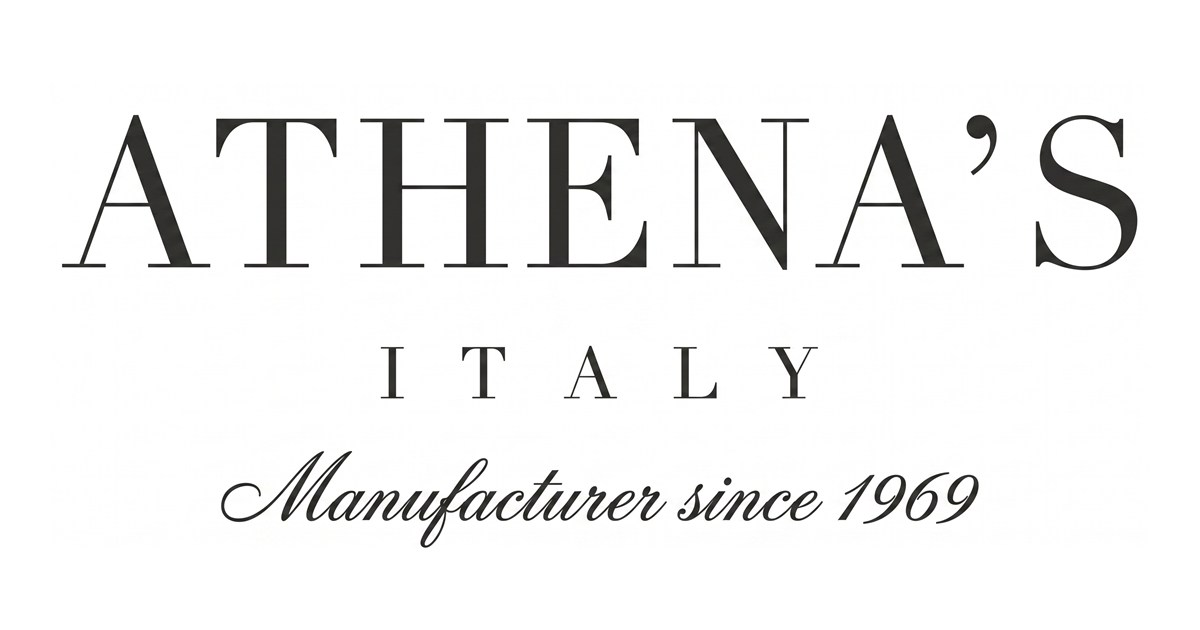
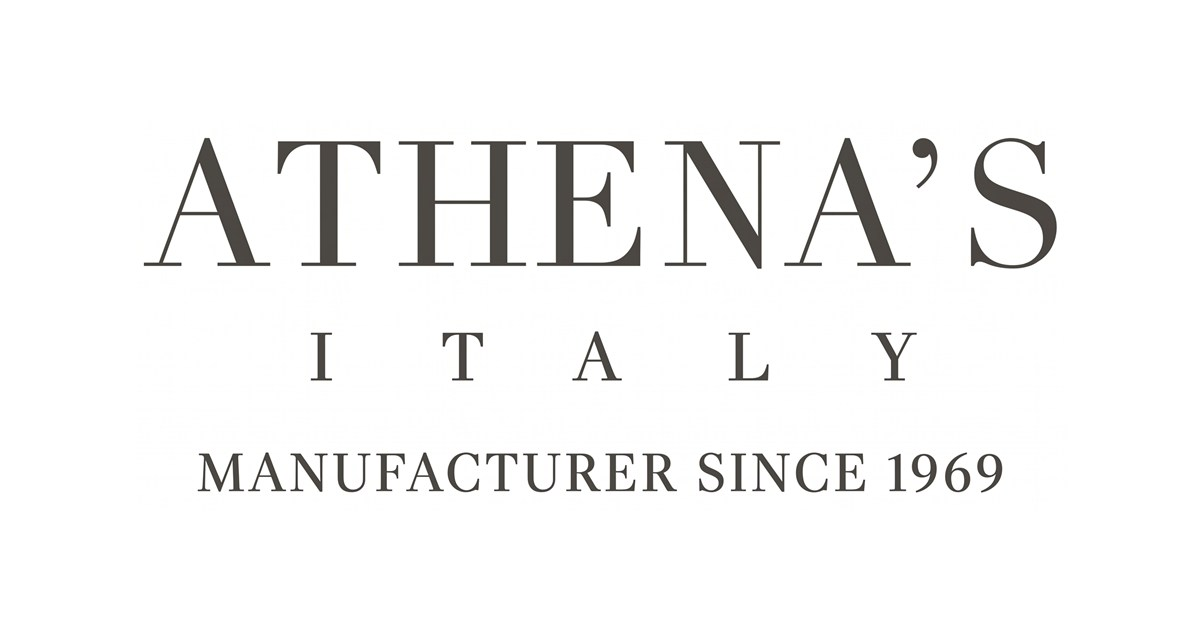
Fix ricerca pagine prodotto + nuova immagine social
- prodotto.html e linee/prodotto-kaley.html: aggiunto search-data.js (mancava -> la ricerca dava sempre 'Nessun risultato')
- immagini/og/athenas-share.jpg: nuovo logo ATHENA'S ITALY / MANUFACTURER SINCE 1969 (1200x630)
- CONSEGNA-TECNICO.md: allineato (font-display swap, app.js v=14)

diff --git a/linee/prodotto-kaley.html b/linee/prodotto-kaley.html
@@ -560,6 +560,7 @@ body { background: var(--pg, #0e0a06); color: #e8d8c0; font-family: var(--sans);
 <div id="footer"></div>
 
 <script src="../assets/vendor/lenis.min.js"></script><script src="../assets/data.js"></script>
+<script src="../assets/search-data.js" defer></script>
 <script src="../assets/app.js?v=14"></script>
 <script>
 initAthenas('brands');

diff --git a/prodotto.html b/prodotto.html
@@ -1149,6 +1149,7 @@
 <script src="assets/vendor/lenis.min.js"></script><script src="assets/data.js?v=7"></script>
 <script src="assets/data-inline.js?v=7"></script>
 <script src="assets/datastore.js?v=9"></script>
+<script src="assets/search-data.js" defer></script>
 <script src="assets/app.js?v=14"></script>
 <script>
 initAthenas('prodotto');

diff --git a/CONSEGNA-TECNICO.md b/CONSEGNA-TECNICO.md
@@ -217,8 +217,9 @@ Questa fase ha sistemato molte cose e ne ha cambiate alcune **strutturali**. Leg
 - ⚠ **Su APACHE (`.htaccess`)**: lì c'è ancora `ExpiresByType image/... "access plus 1 year"`. Se pubblichi su Apache e sostituisci immagini per nome, **riduci quel valore** (o aggiungi `?v=N` ai percorsi immagine) per evitare lo stesso problema di foto stale.
 
 ### 7.4 ⚠ FONT (niente Google Fonts)
-- Tutti i font sono **self-hosted** (`assets/fonts.css` + file in `assets/fonts/`), con `font-display: optional`. Le pagine **precaricano** i font degli hero (Fraunces 200/300 normale+italico, Cormorant 400 italico).
-- ⚠ **Non re-introdurre Google Fonts** (`fonts.googleapis.com`): causava un "lampo" di font sbagliato al caricamento (FOUT) che è stato eliminato proprio passando ai self-hosted.
+- Tutti i font sono **self-hosted** (`assets/fonts.css` + file in `assets/fonts/`), con **`font-display: swap`**. Le pagine **precaricano** i font degli hero (Fraunces 200/300 normale+italico, Cormorant 400 italico).
+- ⚠ **Era `font-display: optional`** e va lasciato **`swap`**: con `optional`, se i font non arrivavano entro ~100ms (es. dopo un hard-reload o a cache vuota) il browser restava sul **font di sistema su TUTTO il sito** e non lo sostituiva più. Con `swap` il font del brand viene **sempre** mostrato appena caricato. **Non rimettere `optional`.**
+- ⚠ **Non re-introdurre Google Fonts** (`fonts.googleapis.com`): i self-hosted servono a evitare dipendenze esterne e il "lampo" di font.
 
 ### 7.5 ⚠ HERO PAGINE LINEA = `background-image`, NON un `<img>`
 - L'hero delle pagine linea (`linee/linea.html`) imposta la foto come **`background-image` del contenitore `#heroBg`** (via JS), non come un `<img>`.
@@ -226,9 +227,9 @@ Questa fase ha sistemato molte cose e ne ha cambiate alcune **strutturali**. Leg
 - ⚠ **NON riconvertire l'hero linea in un `<img>` iniettato via JS**: tornerebbe il bug "hero non visibile online".
 - Nota: mentre la foto carica si vede un **fallback scuro neutro** (prima era verde per un bug: la mappa `palettes` è indicizzata per nome colore ma il codice cercava con l'id linea → ricadeva sempre su "sage"=verde. Ora fallback neutro).
 
-### 7.6 ⚠ `app.js` ha una versione (`?v=10`)
-- `assets/app.js` è incluso come **`app.js?v=10`** in tutte le pagine (cache-busting).
-- ⚠ **Se modifichi `app.js`, alza il numero** (`?v=11`, ecc.) in tutte le pagine, altrimenti i browser dei visitatori continuano a usare la versione vecchia in cache.
+### 7.6 ⚠ `app.js` ha una versione (`?v=14`)
+- `assets/app.js` è incluso come **`app.js?v=14`** in tutte le **16** pagine (cache-busting).
+- ⚠ **Se modifichi `app.js`, alza il numero** (`?v=15`, ecc.) in tutte le pagine, altrimenti i browser dei visitatori continuano a usare la versione vecchia in cache. (CSS e `search-data.js` non hanno `?v=` perché `netlify.toml` li serve in `must-revalidate`: si aggiornano da soli.)
 
 ### 7.7 Testi/etichette cambiati
 - **Terzisti → in inglese è "Contract Manufacturing"** (menu, titoli, ruolo di Gloria in Contatti, tab del form, ricerca). La pagina resta `terzisti.html` (i link non cambiano).
